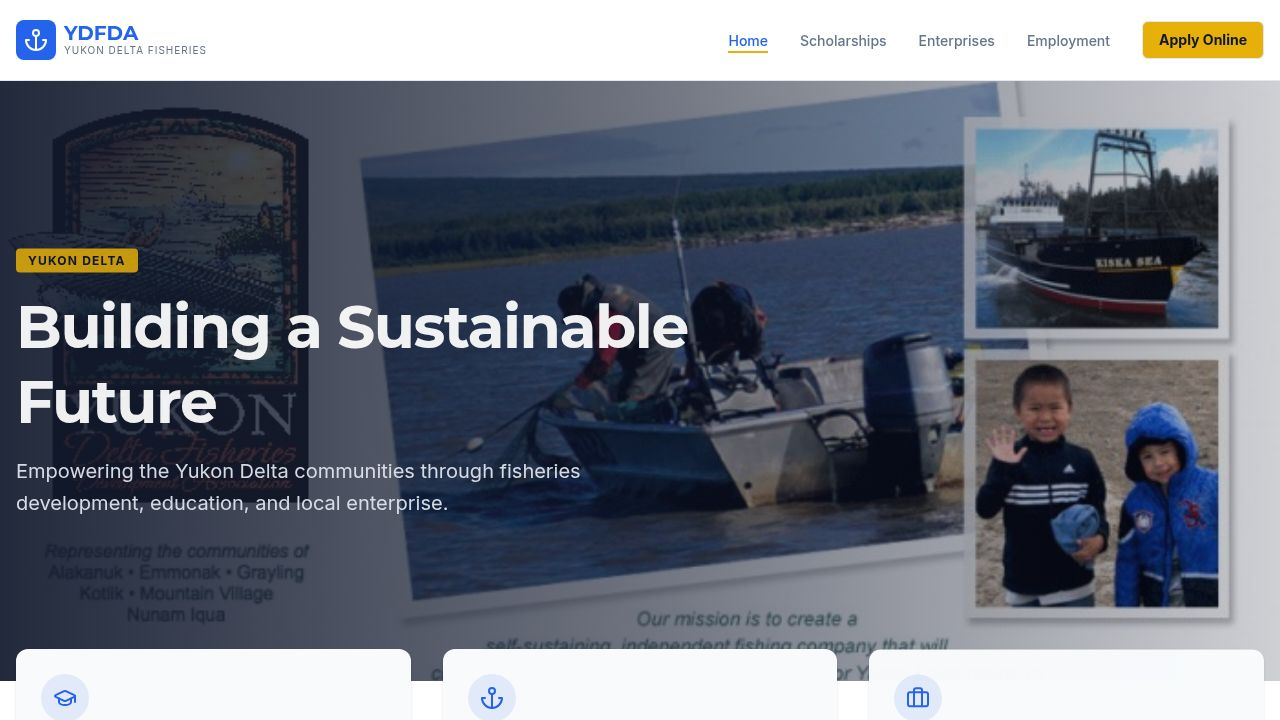
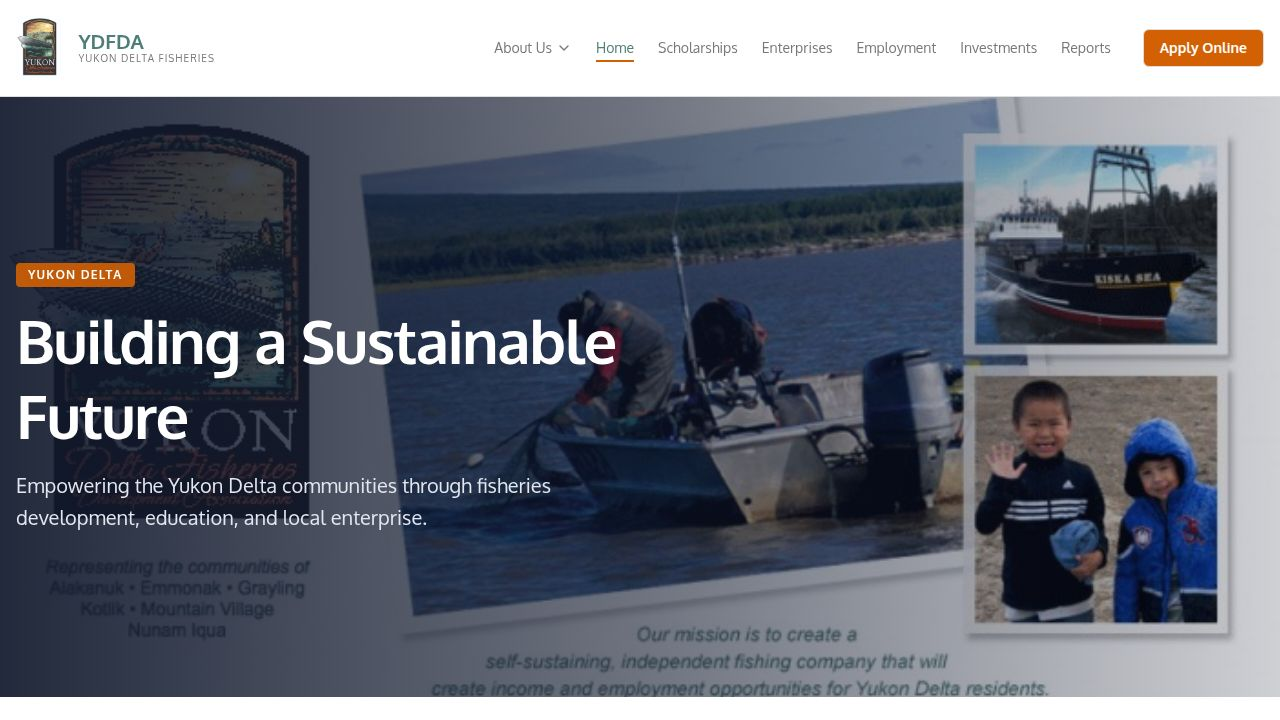
Add Staff and Board of Directors pages to the website
Add new pages for Staff and Board of Directors, integrating them into the site's routing and navigation.

Replit-Commit-Author: Agent
Replit-Commit-Session-Id: c7e7c1ca-2dd0-473f-8814-ecc1222b736a
Replit-Commit-Checkpoint-Type: full_checkpoint
Replit-Commit-Event-Id: 7b9b9556-797a-457b-85fd-acda44d09e6a
Replit-Commit-Screenshot-Url: https://storage.googleapis.com/screenshot-production-us-central1/166fa3b0-f5ac-49ad-bd09-22814456aa8a/c7e7c1ca-2dd0-473f-8814-ecc1222b736a/LnAg37A
Replit-Helium-Checkpoint-Created: true

diff --git a/client/src/pages/about-us/board.tsx b/client/src/pages/about-us/board.tsx
@@ -1,0 +1,125 @@
+import Layout from "@/components/layout";
+import { Hero } from "@/components/hero";
+import { Section } from "@/components/section";
+import { Card, CardContent } from "@/components/ui/card";
+import { MapPin } from "lucide-react";
+
+export default function Board() {
+  const board = [
+    {
+      name: "Max Agayar",
+      role: "Board Chairman",
+      location: "Alakanuk, AK 99554",
+      image: "https://ydfda.org/sites/default/files/styles/profile_image/public/2024-05/Max%20Agayar.jpg?itok=LmDRi3TP"
+    },
+    {
+      name: "Rachel Freireich",
+      role: "Vice Chairman",
+      location: "Grayling, AK",
+      image: "https://ydfda.org/sites/default/files/styles/profile_image/public/2024-05/YDFDA%20Logo%20high_1.jpg?itok=-vMEsFDc"
+    },
+    {
+      name: "Darlene Pete",
+      role: "Board Secretary",
+      location: "Nunam Iqua, AK 99666",
+      image: "https://ydfda.org/sites/default/files/styles/profile_image/public/2024-05/Darlene%20Pete.jpg?itok=ekhgqNYe"
+    },
+    {
+      name: "Antonia Kameroff",
+      role: "Board Member",
+      location: "Emmonak, AK 99581",
+      image: "https://ydfda.org/sites/default/files/styles/profile_image/public/2024-05/Antonia%20Kameroff.jpg?itok=n-eqByy9"
+    },
+    {
+      name: "Cyril Okitkun",
+      role: "Board Member",
+      location: "Kotlik, AK 99620",
+      image: "https://ydfda.org/sites/default/files/styles/profile_image/public/2024-05/Cyril%20Okitkun.jpg?itok=l3otSlMo"
+    },
+    {
+      name: "Reynold Okitkun",
+      role: "Board Member",
+      location: "Kotlik, AK 99620",
+      image: "https://ydfda.org/sites/default/files/styles/profile_image/public/2024-05/Reynold%20Okitkun%20.jpg?itok=QFU-Pifz"
+    },
+    {
+      name: "Stanley Pete",
+      role: "Board Member",
+      location: "Nunam Iqua, AK 99666",
+      image: "https://ydfda.org/sites/default/files/styles/profile_image/public/2024-05/Stanley%20Pete.jpg?itok=e-LIiDAa"
+    },
+    {
+      name: "Elmer Beans",
+      role: "Board Member",
+      location: "Mountain Village, AK",
+      image: "https://ydfda.org/sites/default/files/styles/profile_image/public/2024-05/Elmer%20Beans.jpg?itok=1heNPgkj"
+    },
+    {
+      name: "Shelby Edmunds",
+      role: "Board Member",
+      location: "Alakanuk, AK",
+      image: "https://ydfda.org/sites/default/files/styles/profile_image/public/2024-05/Shelby%20Edmunds.jpg?itok=iNXT8dJd"
+    },
+    {
+      name: "Billy Westlock",
+      role: "Board Member",
+      location: "Emmonak, AK",
+      image: "https://ydfda.org/sites/default/files/styles/profile_image/public/2024-05/YDFDA%20Logo%20high_2.jpg?itok=qvQ63h1J"
+    },
+    {
+      name: "Christine Teganlakla",
+      role: "Board Member",
+      location: "Emmonak, AK",
+      image: "https://ydfda.org/sites/default/files/styles/profile_image/public/2024-05/Christine%20Teganlakla.jpg?itok=obgr5UYW"
+    },
+    {
+      name: "Rebecca Bostrom",
+      role: "Board Member",
+      location: "Grayling, AK",
+      image: "https://ydfda.org/sites/default/files/styles/profile_image/public/2024-05/YDFDA%20Logo%20high_3.jpg?itok=iDIL6GNT"
+    },
+    {
+      name: "Eric Walters",
+      role: "Board Member",
+      location: "Mountain Village, AK",
+      image: "https://ydfda.org/sites/default/files/styles/profile_image/public/2024-05/YDFDA%20Logo%20high_4.jpg?itok=Y-Fl_lOk"
+    }
+  ];
+
+  return (
+    <Layout>
+      <Hero 
+        image="https://ydfda.org/sites/default/files/inline-images/aboutUs-Hero3.jpg"
+        title="Board of Directors"
+        subtitle="Representing our six member villages with leadership and vision."
+      />
+
+      <Section className="bg-white">
+        <div className="container mx-auto px-4">
+          <div className="grid grid-cols-2 md:grid-cols-3 lg:grid-cols-4 gap-8">
+            {board.map((member, index) => (
+              <Card key={index} className="h-full border border-[#dddddd] hover:shadow-lg transition-shadow overflow-hidden flex flex-col text-center">
+                <div className="aspect-square w-full bg-slate-100 relative group overflow-hidden">
+                   <img 
+                    src={member.image} 
+                    alt={member.name}
+                    className="w-full h-full object-cover transition-transform duration-500 group-hover:scale-105"
+                  />
+                  <div className="absolute inset-0 bg-[#4e7f76]/0 group-hover:bg-[#4e7f76]/10 transition-colors" />
+                </div>
+                <CardContent className="p-6 flex-1 flex flex-col items-center">
+                  <h3 className="text-lg font-bold text-[#333333] mb-1">{member.name}</h3>
+                  <div className="text-[#d16103] font-medium text-sm mb-3 uppercase tracking-wide">{member.role}</div>
+                  <div className="mt-auto flex items-center gap-1 text-[#777777] text-xs">
+                    <MapPin className="w-3 h-3" />
+                    {member.location}
+                  </div>
+                </CardContent>
+              </Card>
+            ))}
+          </div>
+        </div>
+      </Section>
+    </Layout>
+  );
+}

diff --git a/client/src/components/layout.tsx b/client/src/components/layout.tsx
@@ -1,8 +1,14 @@
 import { Link, useLocation } from "wouter";
-import { Menu, X, Phone, Mail, MapPin } from "lucide-react";
+import { Menu, X, Phone, Mail, MapPin, ChevronDown } from "lucide-react";
 import { useState } from "react";
 import { Button } from "@/components/ui/button";
 import { cn } from "@/lib/utils";
+import {
+  DropdownMenu,
+  DropdownMenuContent,
+  DropdownMenuItem,
+  DropdownMenuTrigger,
+} from "@/components/ui/dropdown-menu";
 
 export default function Layout({ children }: { children: React.ReactNode }) {
   const [isOpen, setIsOpen] = useState(false);
@@ -36,6 +42,20 @@ export default function Layout({ children }: { children: React.ReactNode }) {
 
           {/* Desktop Nav */}
           <nav className="hidden lg:flex items-center gap-6">
+            <DropdownMenu>
+              <DropdownMenuTrigger className="flex items-center gap-1 text-sm font-medium transition-colors hover:text-primary outline-none text-muted-foreground">
+                About Us <ChevronDown className="h-4 w-4" />
+              </DropdownMenuTrigger>
+              <DropdownMenuContent>
+                <Link href="/about-us/staff">
+                  <DropdownMenuItem className="cursor-pointer">Staff</DropdownMenuItem>
+                </Link>
+                <Link href="/about-us/board">
+                  <DropdownMenuItem className="cursor-pointer">Board of Directors</DropdownMenuItem>
+                </Link>
+              </DropdownMenuContent>
+            </DropdownMenu>
+
             {navItems.map((item) => (
               <Link 
                 key={item.name} 
@@ -70,6 +90,16 @@ export default function Layout({ children }: { children: React.ReactNode }) {
         {/* Mobile Nav */}
         {isOpen && (
           <div className="lg:hidden border-t bg-background p-4 flex flex-col gap-4 animate-in slide-in-from-top-5">
+            <div className="py-2 px-4 font-bold text-muted-foreground uppercase text-xs tracking-wider">About Us</div>
+            <Link href="/about-us/staff" className="pl-8 py-2 text-lg font-medium hover:bg-muted rounded-md" onClick={() => setIsOpen(false)}>
+              Staff
+            </Link>
+            <Link href="/about-us/board" className="pl-8 py-2 text-lg font-medium hover:bg-muted rounded-md" onClick={() => setIsOpen(false)}>
+              Board of Directors
+            </Link>
+            
+            <div className="border-t my-2" />
+            
             {navItems.map((item) => (
               <Link 
                 key={item.name} 
@@ -120,6 +150,16 @@ export default function Layout({ children }: { children: React.ReactNode }) {
                 </li>
               ))}
               <li>
+                <Link href="/about-us/staff" className="text-slate-400 hover:text-secondary transition-colors text-sm cursor-pointer">
+                  Staff
+                </Link>
+              </li>
+              <li>
+                <Link href="/about-us/board" className="text-slate-400 hover:text-secondary transition-colors text-sm cursor-pointer">
+                  Board of Directors
+                </Link>
+              </li>
+              <li>
                 <Link href="/apply" className="text-slate-400 hover:text-secondary transition-colors text-sm cursor-pointer">
                   Apply Online
                 </Link>
@@ -141,9 +181,9 @@ export default function Layout({ children }: { children: React.ReactNode }) {
                 </Link>
               </li>
               <li>
-                <a href="#" className="text-slate-400 hover:text-secondary transition-colors text-sm">
+                <Link href="/about-us/board" className="text-slate-400 hover:text-secondary transition-colors text-sm">
                   Board of Directors
-                </a>
+                </Link>
               </li>
             </ul>
           </div>

diff --git a/client/src/pages/about-us/staff.tsx b/client/src/pages/about-us/staff.tsx
@@ -1,0 +1,114 @@
+import Layout from "@/components/layout";
+import { Hero } from "@/components/hero";
+import { Section } from "@/components/section";
+import { Card, CardContent, CardHeader, CardTitle } from "@/components/ui/card";
+import { Mail, Briefcase } from "lucide-react";
+
+export default function Staff() {
+  const staff = [
+    {
+      name: "Ragnar Alstrom",
+      title: "Executive Director",
+      email: "ragnaraydf@aol.com"
+    },
+    {
+      name: "Ryan Giliam",
+      title: "Finance Director",
+      email: "rgiliam@ydfda.org"
+    },
+    {
+      name: "Ivan Demientieff",
+      title: "Operations Manager, Yukon River Towing",
+      email: "ivan.demientieff@outlook.com",
+      link: "www.yukonrivertowing.com"
+    },
+    {
+      name: "Gerry Davis",
+      title: "General Counsel",
+      email: "Gerry@davispartners.net"
+    },
+    {
+      name: "Robert Andrews",
+      title: "Manager, Yukon Marine Manufacturing",
+      email: "robert@ydfda.org"
+    },
+    {
+      name: "Landry Price",
+      title: "Quota Manager",
+      email: "landry@ydfda.org"
+    },
+    {
+      name: "Jennifer Williams",
+      title: "Government Affairs",
+      email: "jwilliams@ydfda.org"
+    },
+    {
+      name: "Linnell Bush",
+      title: "Scholarship Coordinator / Youth Mentor",
+      email: "lbush@ydfda.org"
+    },
+    {
+      name: "Gordon Westlock Jr",
+      title: "Fisheries Manager, Kwik'pak Fisheries",
+      email: "gwestlockjr@ydfda.org"
+    },
+    {
+      name: "Douglas Redfox",
+      title: "Employment and Training Coordinator",
+      email: "dougredfox@gci.net"
+    },
+    {
+      name: "Courtney Weiss",
+      title: "Grant Coordinator / Fisheries Biologist",
+      email: "cweiss@ydfda.org"
+    },
+    {
+      name: "Jodi Sibson",
+      title: "Controller",
+      email: "jsibson@ydfda.org"
+    }
+  ];
+
+  return (
+    <Layout>
+      <Hero 
+        image="https://ydfda.org/sites/default/files/inline-images/aboutUs-Hero3.jpg"
+        title="Our Staff"
+        subtitle="The dedicated team working for the future of the Yukon Delta."
+      />
+
+      <Section className="bg-white">
+        <div className="container mx-auto px-4">
+          <div className="grid md:grid-cols-2 lg:grid-cols-3 gap-8">
+            {staff.map((person, index) => (
+              <Card key={index} className="h-full border border-[#dddddd] hover:shadow-lg transition-shadow">
+                <CardHeader>
+                  <CardTitle className="text-xl font-bold text-[#333333]">{person.name}</CardTitle>
+                </CardHeader>
+                <CardContent className="space-y-4">
+                  <div className="flex items-start gap-3">
+                    <Briefcase className="w-5 h-5 text-[#4e7f76] shrink-0 mt-0.5" />
+                    <span className="text-[#555555] font-medium">{person.title}</span>
+                  </div>
+                  <div className="flex items-center gap-3">
+                    <Mail className="w-5 h-5 text-[#d16103] shrink-0" />
+                    <a href={`mailto:${person.email}`} className="text-[#428bca] hover:underline break-all">
+                      {person.email}
+                    </a>
+                  </div>
+                  {person.link && (
+                     <div className="pl-8 text-sm">
+                       <a href={`https://${person.link}`} target="_blank" rel="noopener noreferrer" className="text-[#428bca] hover:underline">
+                         {person.link}
+                       </a>
+                     </div>
+                  )}
+                </CardContent>
+              </Card>
+            ))}
+          </div>
+        </div>
+      </Section>
+    </Layout>
+  );
+}

diff --git a/client/src/App.tsx b/client/src/App.tsx
@@ -12,6 +12,8 @@ import Employment from "@/pages/employment";
 import Apply from "@/pages/apply";
 import Investments from "@/pages/investments";
 import Reports from "@/pages/reports";
+import Staff from "@/pages/about-us/staff";
+import Board from "@/pages/about-us/board";
 
 function Router() {
   return (
@@ -23,6 +25,8 @@ function Router() {
       <Route path="/apply" component={Apply} />
       <Route path="/investments" component={Investments} />
       <Route path="/reports" component={Reports} />
+      <Route path="/about-us/staff" component={Staff} />
+      <Route path="/about-us/board" component={Board} />
       <Route component={NotFound} />
     </Switch>
   );
